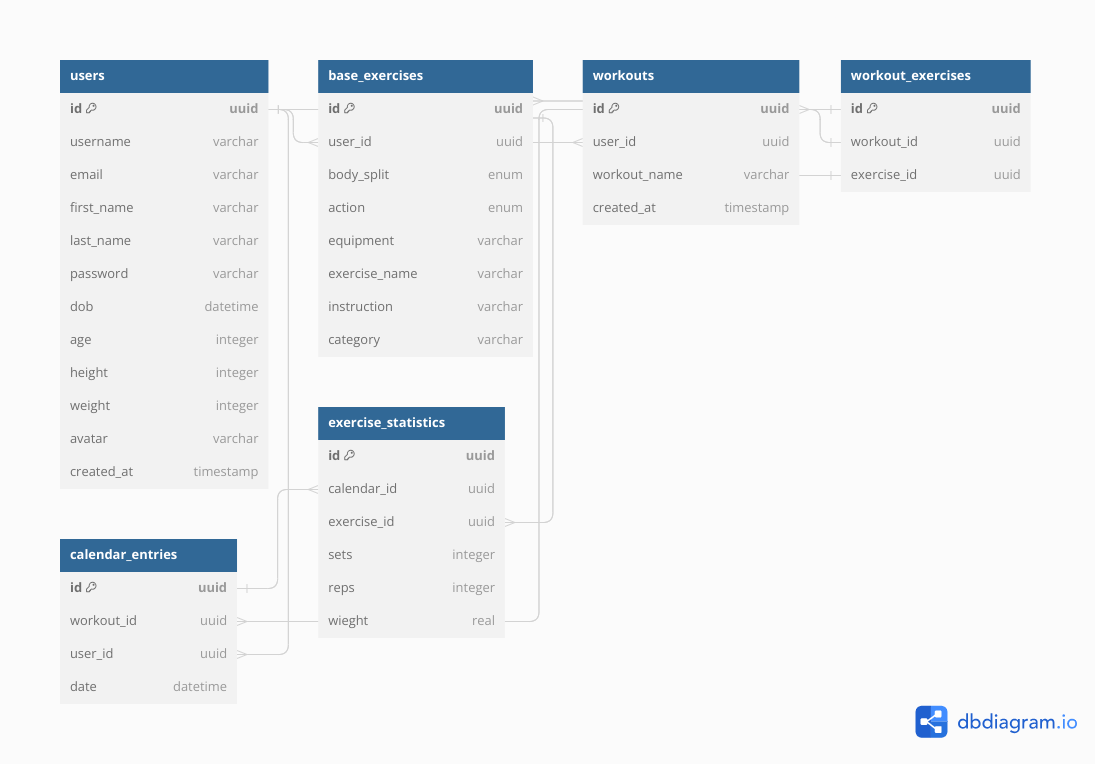
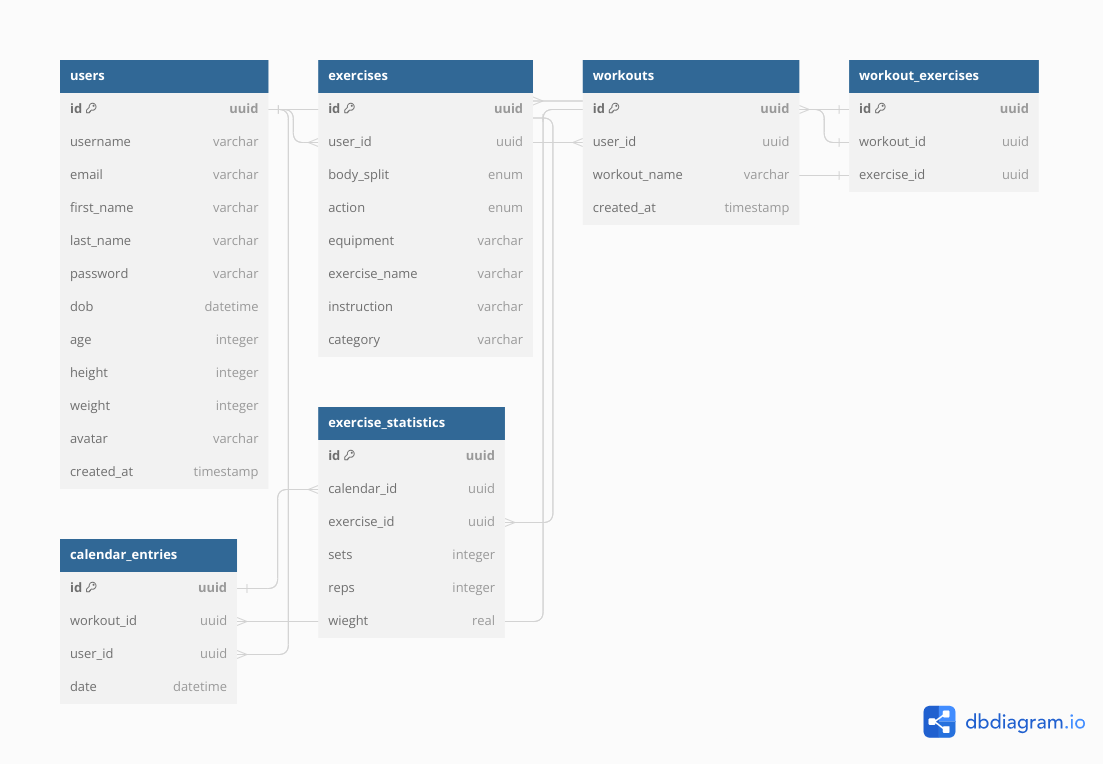
Update erd and reamdme

diff --git a/README.md b/README.md
@@ -15,7 +15,7 @@ To offer an accessible application that enables a user to easily **Plan** workou
 
 ### **Current ERD**
 
-- using single table inheritence, base_exercises contains stock exercises provided by the developers and custom exercises created by the user. Users can create workout routines with a mixture of both custom and stock exercises. 
+- using single table inheritence, exercises contains stock-exercises provided by the developers and custom-exercises created by the user. Users can create workout routines with a mixture of both custom and stock exercises. 
 
 ![alt text](erd_v2.png "erd")<br/><br><br/><br/>
 
